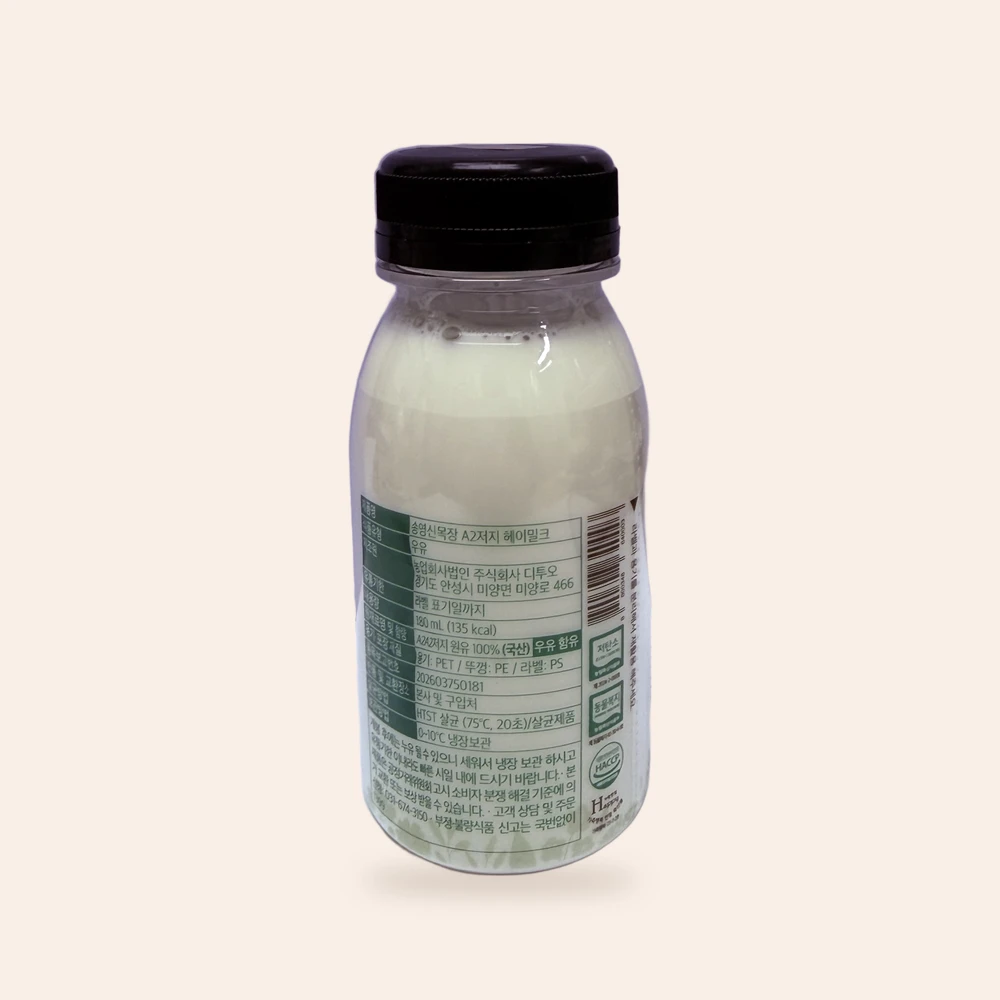
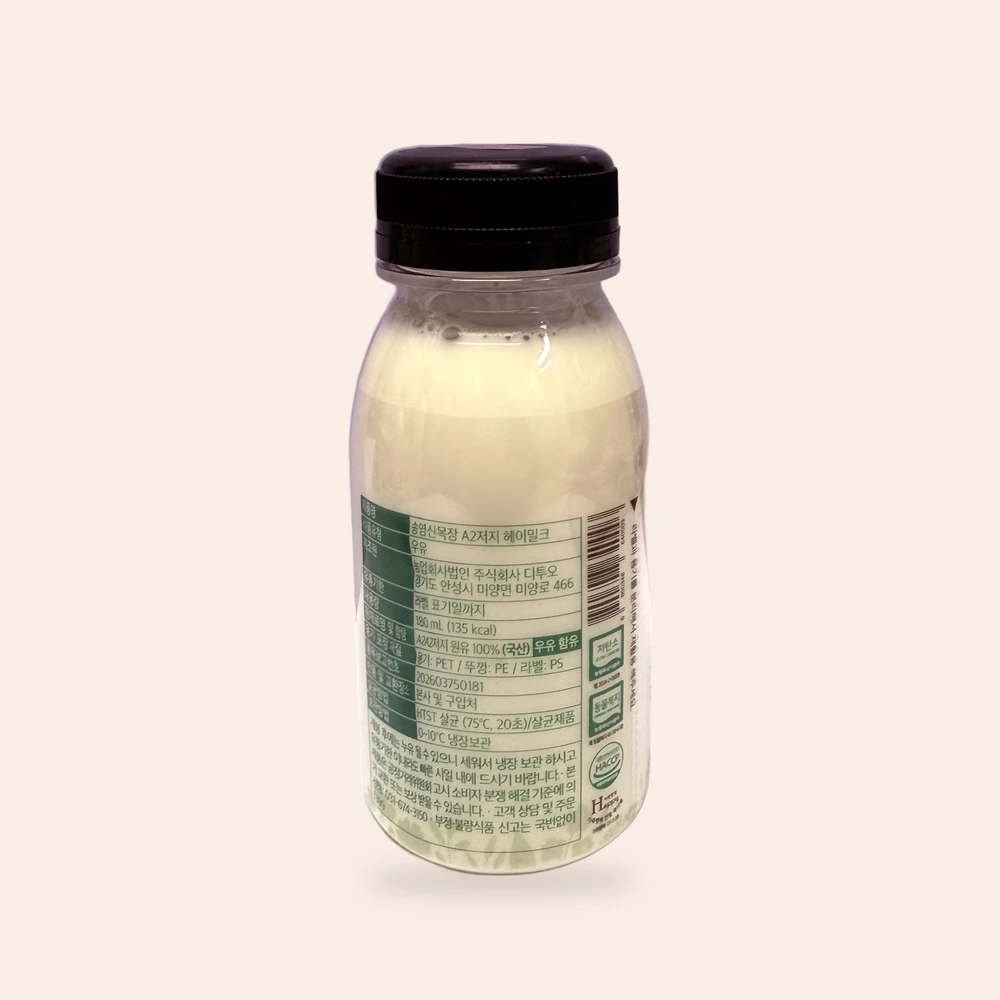
fix(제품 사진): 옆·뒷면·라벨 컷의 색을 정면 사진에 맞춤 (#246)
옆·뒷면 촬영은 보라 배경 반사로 우유가 회녹색으로 차갑게 찍혀 정면 컷(따뜻한 아이보리)과
한눈에 달라 보였다. 제품별로 정면 병의 평균색 ÷ 옆·뒷면 병의 평균색을 채널별 배율로 구해
사진 전체에 같은 배율만 곱했다(검정은 검정으로 남는다). 라벨 확대 컷에도 같은 배율을 쓴다.

AI 업스케일·재생성은 쓰지 않았다 — 라벨 글자가 바뀌는 사고(2026-11-13)가 있어 금지돼 있다.
배경 제거는 지난번 Higgsfield 알파를 그대로 쓴다. 확대 컷 글자를 다시 읽어 원본과 같음을 확인했다.

Claude-Session: https://claude.ai/code/session_01F2bgBQraTf4BRgaK2ZraPF

Changed region(s): [[0.341, 0.248, 0.651, 0.899], [0.465, 0.124, 0.527, 0.155]]

diff --git a/AGENTS.md b/AGENTS.md
@@ -93,6 +93,8 @@ PNG)을 전부 실물 사진으로 바꿨다(원본: `assets/product-photos/`). 
 - 홈 단체 사진(`hero-row-white.webp`)과 대표 공유 이미지는 회장님 지시로 그대로 뒀다(글자만 교정한 렌더).
 - 2026-11-18 옆·뒷면 실물 사진 8장을 받아 상세 갤러리(정면·옆면·뒷면·표시사항·영양정보)를 만들었다
   (원본: `assets/product-photos/sides/`). 병 컷은 위와 같은 방식(알파만 + 전체 동일 보정), 표시사항·영양정보
-  컷은 원본을 자르고 90° 돌리기만 했다. 라벨 확대 컷에는 `cut` 을 걸지 않는다 — `.product-cut` 마스크가 글자 끝을 지운다.
+  컷은 원본을 자르고 90° 돌리기만 했다. 같은 날 색을 정면 컷에 맞췄다 — 정면 병의 평균색 ÷ 옆·뒷면 병의
+  평균색을 채널별 배율로 전체에 곱한다(덧셈 보정은 검은 뚜껑을 갈색으로 띄운다). AI 업스케일·재생성은 쓰지 않았다.
+  라벨 확대 컷에는 `cut` 을 걸지 않는다 — `.product-cut` 마스크가 글자 끝을 지운다.
 
 `public/detail/*.jpg` 는 쓰이지 않는 옛 상세 이미지이며 같은 종류의 오류가 남아 있으니 되살리지 않는다.
